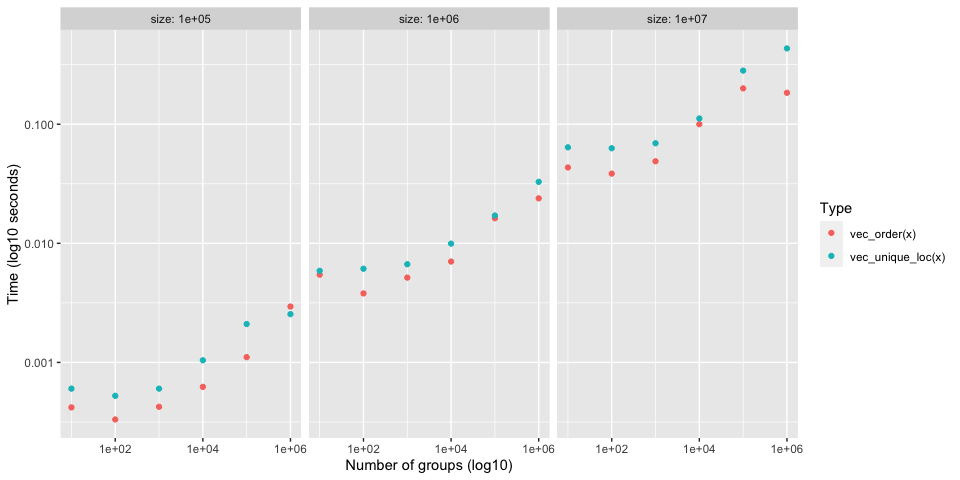
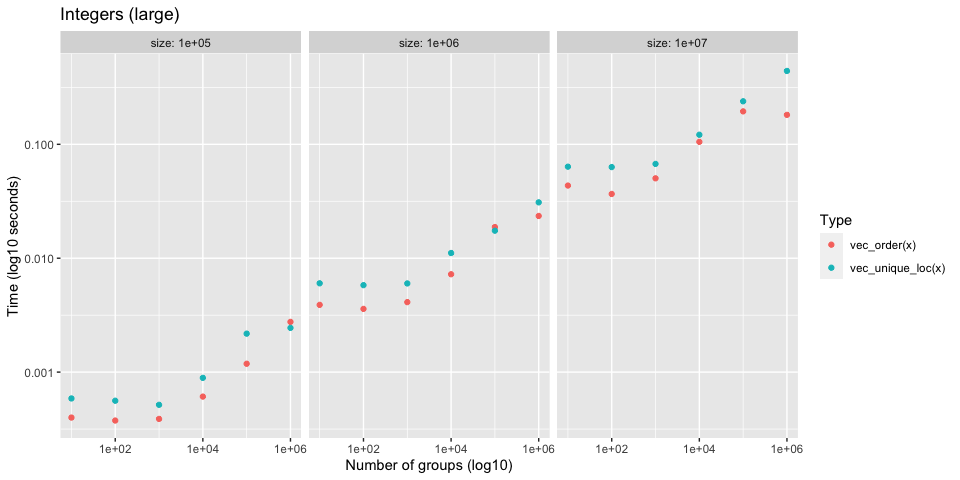
Update sorting-vs-hashing article with doubles / multiple columns

diff --git a/bench/sorting-vs-hashing.md b/bench/sorting-vs-hashing.md
@@ -74,6 +74,8 @@ based on `vec_order()`. It takes approximately the same amount of time
 as `vec_order()` itself, so I will just use `vec_order()` as a proxy for
 the sorting approach.
 
+## Integers
+
 ### Test 1
 
   - Integers
@@ -114,18 +116,18 @@ df[-1] %>%
 #>  # A tibble: 12 x 7
 #>      size n_groups      min   median `itr/sec` mem_alloc `gc/sec`
 #>     <dbl>    <dbl> <bch:tm> <bch:tm>     <dbl> <bch:byt>    <dbl>
-#>   1 10000       10   38.3µs   51.8µs    19679.    39.1KB      0  
-#>   2 10000       10   83.5µs     88µs    11173.   104.2KB      0  
-#>   3 10000      100   33.5µs   49.2µs    19908.    39.1KB      0  
-#>   4 10000      100   58.1µs   90.1µs    10972.   104.7KB      0  
-#>   5 10000     1000   52.4µs   55.5µs    16933.    39.1KB      0  
-#>   6 10000     1000   64.5µs  109.7µs     9468.   114.3KB      0  
-#>   7 10000    10000     85µs    100µs     9817.    39.1KB      0  
-#>   8 10000    10000  166.8µs    226µs     4553.     191KB      0  
-#>   9 10000   100000  206.9µs  225.2µs     4343.    39.1KB      0  
-#>  10 10000   100000  190.1µs  257.2µs     3912.   267.7KB     39.5
-#>  11 10000  1000000  187.2µs    201µs     4867.   174.3KB      0  
-#>  12 10000  1000000  168.7µs  202.3µs     4744.   269.4KB     47.9
+#>   1 10000       10   38.3µs   40.9µs    21938.    39.1KB      0  
+#>   2 10000       10     54µs   90.4µs    10903.   104.2KB      0  
+#>   3 10000      100   35.1µs   46.2µs    21748.    39.1KB      0  
+#>   4 10000      100   46.8µs     87µs    12224.   104.7KB      0  
+#>   5 10000     1000   50.9µs   51.8µs    18652.    39.1KB      0  
+#>   6 10000     1000  101.1µs  114.2µs     8557.   114.3KB      0  
+#>   7 10000    10000   86.8µs   90.8µs    10622.    39.1KB      0  
+#>   8 10000    10000    161µs  198.7µs     5009.     191KB      0  
+#>   9 10000   100000    194µs  222.7µs     4414.    39.1KB      0  
+#>  10 10000   100000    152µs  220.6µs     4535.   267.7KB     45.8
+#>  11 10000  1000000  186.6µs  237.3µs     4378.   174.3KB      0  
+#>  12 10000  1000000  186.6µs  219.3µs     4410.   269.4KB     44.5
 ```
 
 ### Test 2
@@ -159,17 +161,20 @@ As the total size increases, `vec_order()` starts to do better.
 
 ![](sorting-vs-hashing_files/figure-gfm/unnamed-chunk-10-1.png)<!-- -->
 
-In particular, if you get to around 10,000,000 values and increase the
-number of groups past the counting sort range, you really see the
-benefits of the radix sort kick in.
+### Test 3
+
+This benchmark shows how much better `vec_order()` scales for large size
+and large number of groups. For integers it is always faster, and scales
+extremely well.
 
 ``` r
 set.seed(123)
 
-size <- 10 ^ 7
-n_groups <- c(1e6, seq(2e6, 1e7, by = 2e6))
+size <- 10 ^ 8
+n_groups <- 10 ^ (1:7)
 
 df <- bench::press(
+  size = size,
   n_groups = n_groups,
   {
     x <- sample(n_groups, size, replace = TRUE)
@@ -183,7 +188,71 @@ df <- bench::press(
 
 ![](sorting-vs-hashing_files/figure-gfm/unnamed-chunk-12-1.png)<!-- -->
 
-### Test 3
+## Doubles
+
+### Test 1
+
+  - Doubles
+  - Varying total size (small)
+  - Varying group size
+
+<!-- end list -->
+
+``` r
+set.seed(123)
+
+size <- 10 ^ (1:4)
+n_groups <- 10 ^ (1:6)
+
+df <- bench::press(
+  size = size,
+  n_groups = n_groups,
+  {
+    x <- sample(n_groups, size, replace = TRUE) + 0
+    bench::mark(
+      vec_order(x), vec_unique_loc(x), 
+      iterations = 100, check = FALSE
+    )
+  }
+)
+```
+
+`vec_order()` is generally a bit slower for these smaller sizes, but it
+scales much better with large sizes and larger number of groups. See the
+next test.
+
+![](sorting-vs-hashing_files/figure-gfm/unnamed-chunk-14-1.png)<!-- -->
+
+### Test 2
+
+This benchmark shows how much better `vec_order()` scales for large size
+and large number of groups. For doubles it is slower up front, but
+scales much better.
+
+``` r
+set.seed(123)
+
+size <- 10 ^ 8
+n_groups <- 10 ^ (1:7)
+
+df <- bench::press(
+  size = size,
+  n_groups = n_groups,
+  {
+    x <- sample(n_groups, size, replace = TRUE) + 0
+    bench::mark(
+      vec_order(x), vec_unique_loc(x), 
+      iterations = 20, check = FALSE
+    )
+  }
+)
+```
+
+![](sorting-vs-hashing_files/figure-gfm/unnamed-chunk-16-1.png)<!-- -->
+
+## Characters
+
+### Test 1
 
 Currently string ordering is much slower than `vec_unique_loc()`
 (especially when most strings are unique) due to all of the allocations
@@ -219,8 +288,8 @@ bench::mark(vec_order(x), vec_unique_loc(x), iterations = 10, check = FALSE)
 #>  # A tibble: 2 x 6
 #>    expression             min   median `itr/sec` mem_alloc `gc/sec`
 #>    <bch:expr>        <bch:tm> <bch:tm>     <dbl> <bch:byt>    <dbl>
-#>  1 vec_order(x)        81.9ms     95ms      10.8     124MB     16.2
-#>  2 vec_unique_loc(x)     87ms   89.8ms      11.2     102MB     11.2
+#>  1 vec_order(x)        95.9ms    110ms      9.13     124MB        0
+#>  2 vec_unique_loc(x)  117.5ms    125ms      8.03     102MB        0
 ```
 
 Very large set of completely random strings
@@ -241,6 +310,102 @@ bench::mark(vec_order(x), vec_unique_loc(x), iterations = 10, check = FALSE)
 #>  # A tibble: 2 x 6
 #>    expression             min   median `itr/sec` mem_alloc `gc/sec`
 #>    <bch:expr>        <bch:tm> <bch:tm>     <dbl> <bch:byt>    <dbl>
-#>  1 vec_order(x)         5.64s     6.1s     0.150     856MB    0.330
-#>  2 vec_unique_loc(x)    1.15s    1.49s     0.670     268MB    0.335
+#>  1 vec_order(x)          4.5s    4.53s     0.221     856MB    0.516
+#>  2 vec_unique_loc(x)    1.18s     1.2s     0.831     268MB    0.208
+```
+
+## Multiple columns
+
+### Test 1
+
+3 integer columns, each with 20 groups. 1e7 total size.
+
+``` r
+set.seed(123)
+
+size <- 1e7L
+n_groups <- 20
+n_cols <- 3
+
+cols <- replicate(n_cols, sample(n_groups, size, TRUE), simplify = FALSE)
+names(cols) <- seq_along(cols)
+df <- vctrs::new_data_frame(cols, size)
+
+bench::mark(
+  vec_order(df), 
+  vec_unique_loc(df), 
+  iterations = 10,
+  check = FALSE
+)
+#>  # A tibble: 2 x 6
+#>    expression              min   median `itr/sec` mem_alloc `gc/sec`
+#>    <bch:expr>         <bch:tm> <bch:tm>     <dbl> <bch:byt>    <dbl>
+#>  1 vec_order(df)         253ms    263ms      3.77     115MB    0.419
+#>  2 vec_unique_loc(df)    304ms    320ms      3.10     102MB    0.344
+```
+
+### Test 2
+
+Same as before but with character columns. We do worse here because as
+mentioned before, we do too much work in `vec_order()` right now with
+character vectors.
+
+``` r
+set.seed(123)
+
+size <- 1e7L
+n_groups <- 20
+n_cols <- 3
+
+cols <- replicate(
+  n_cols, 
+  {
+    dict <- new_dictionary(n_groups, 5, 20)
+    sample(dict, size, TRUE)
+  }, 
+  simplify = FALSE
+)
+
+names(cols) <- seq_along(cols)
+df <- vctrs::new_data_frame(cols, size)
+
+bench::mark(
+  vec_order(df), 
+  vec_unique_loc(df), 
+  iterations = 5,
+  check = FALSE
+)
+#>  # A tibble: 2 x 6
+#>    expression              min   median `itr/sec` mem_alloc `gc/sec`
+#>    <bch:expr>         <bch:tm> <bch:tm>     <dbl> <bch:byt>    <dbl>
+#>  1 vec_order(df)         485ms    492ms      2.04     239MB    0.509
+#>  2 vec_unique_loc(df)    470ms    474ms      2.11     102MB    0
+```
+
+### Test 3
+
+20 integer columns, each with 2 groups. 1e7 total size.
+
+``` r
+set.seed(123)
+
+size <- 1e7L
+n_groups <- 2
+n_cols <- 20
+
+cols <- replicate(n_cols, sample(n_groups, size, TRUE), simplify = FALSE)
+names(cols) <- seq_along(cols)
+df <- vctrs::new_data_frame(cols, size)
+
+bench::mark(
+  vec_order(df), 
+  vec_unique_loc(df), 
+  iterations = 5,
+  check = FALSE
+)
+#>  # A tibble: 2 x 6
+#>    expression              min   median `itr/sec` mem_alloc `gc/sec`
+#>    <bch:expr>         <bch:tm> <bch:tm>     <dbl> <bch:byt>    <dbl>
+#>  1 vec_order(df)         2.85s    2.85s     0.351     123MB    0.234
+#>  2 vec_unique_loc(df)    6.04s    6.08s     0.164     114MB    0
 ```
